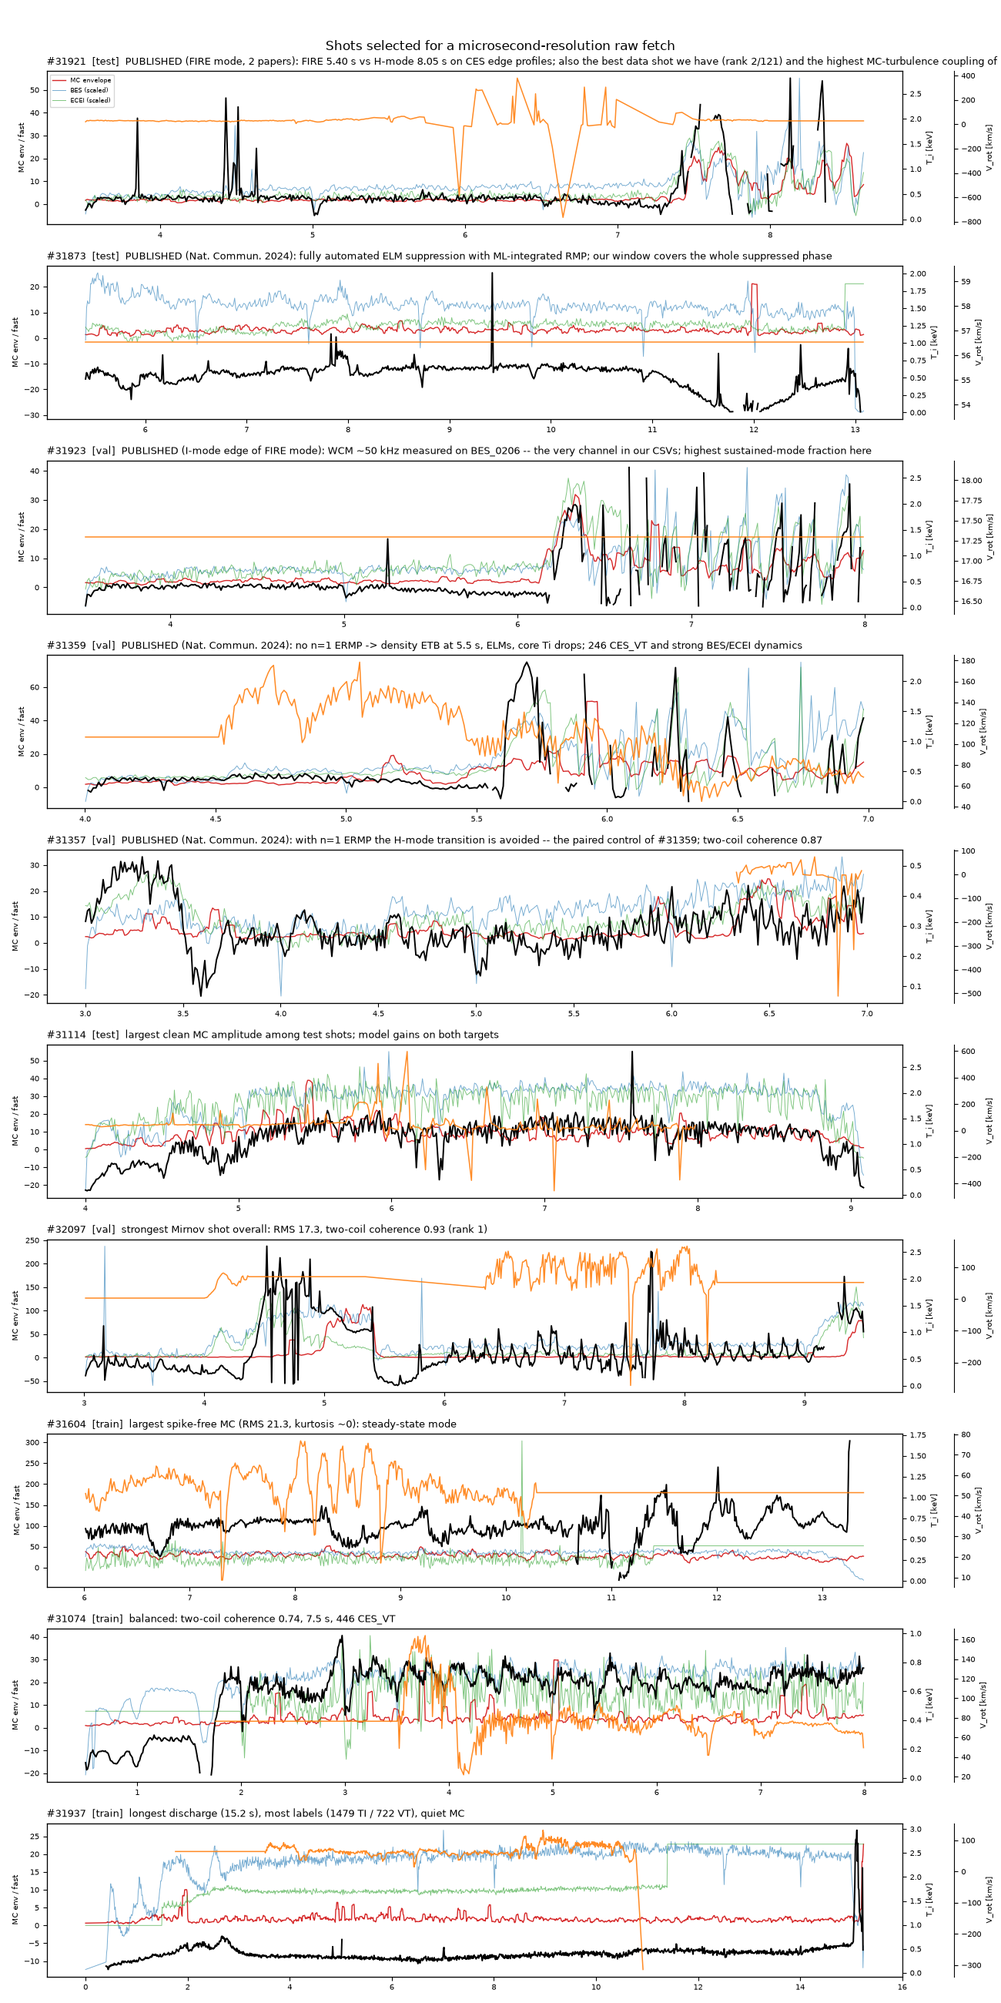
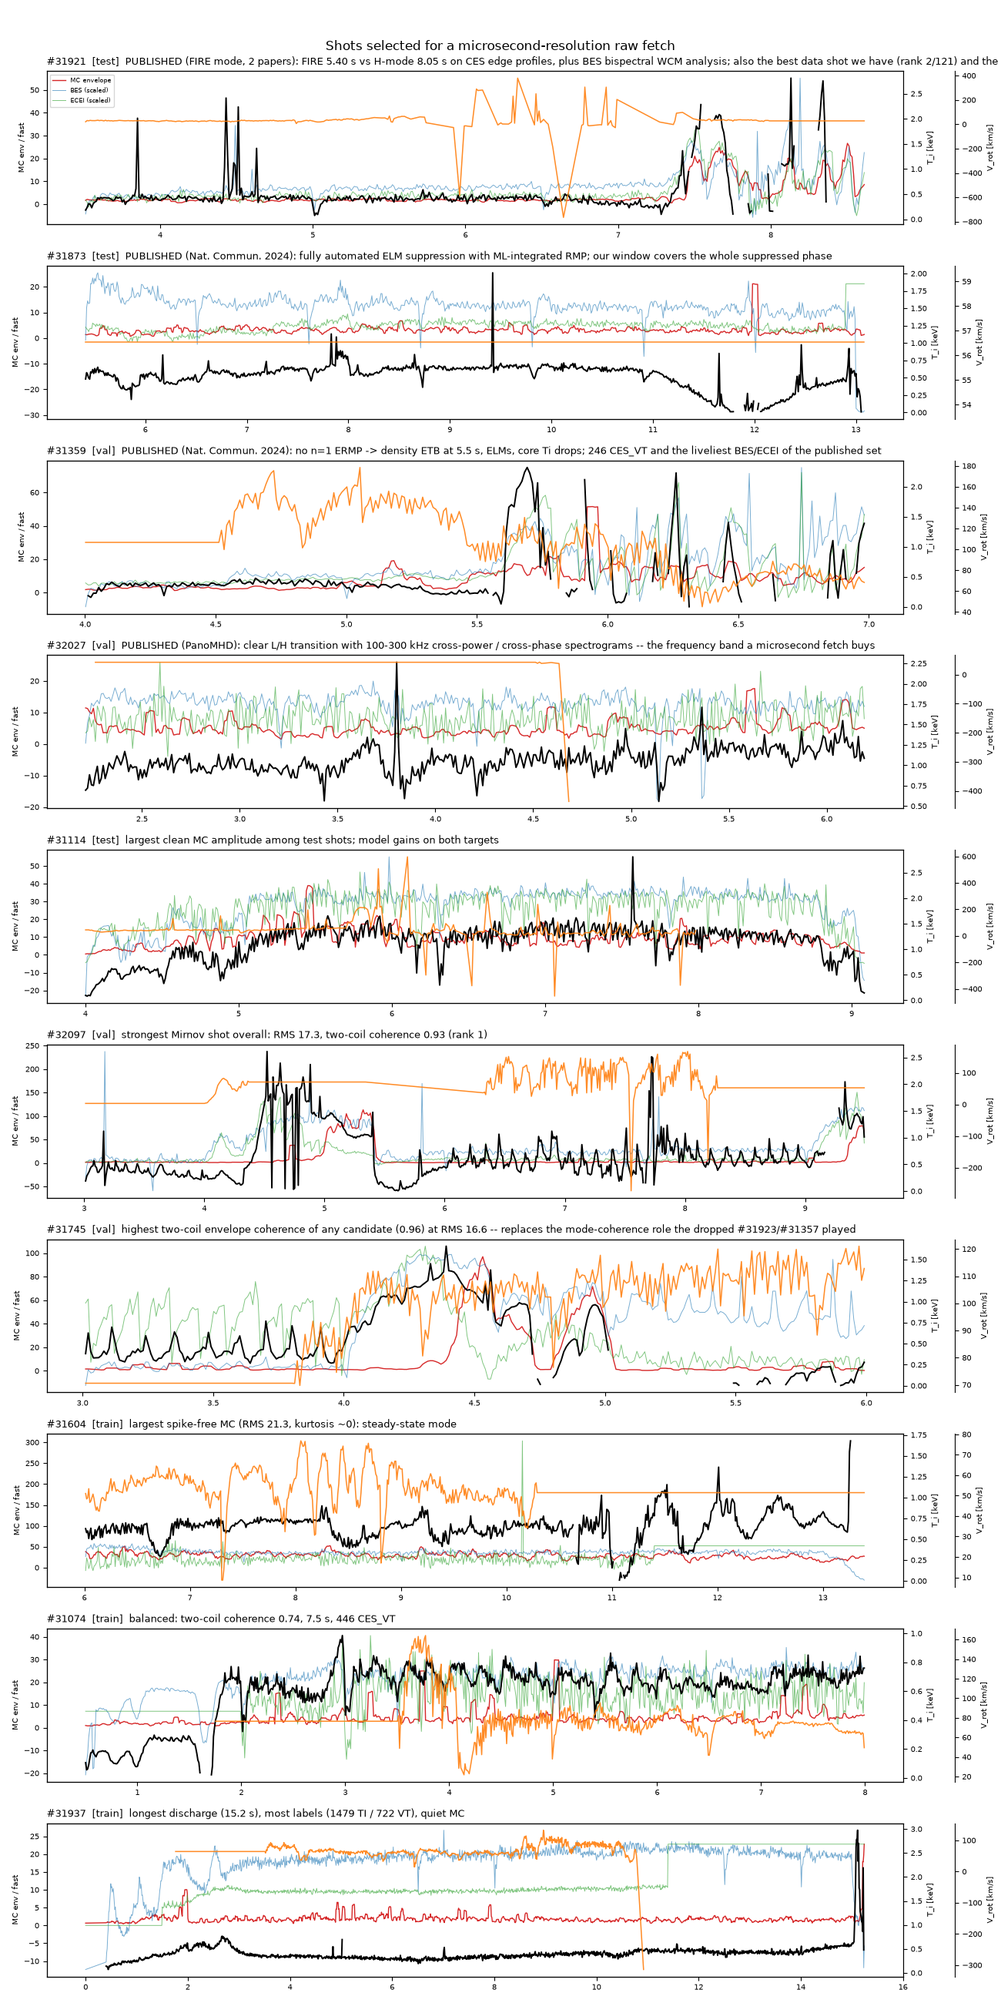
Remove same-session pairs from the microsecond-fetch list, keeping the frozen splits
The list had two pairs of shots two apart: #31921/#31923 and #31357/#31359. Adjacent shot
numbers are repeat discharges from one session, sharing plasma setup and diagnostic
gain/offset, so keeping both spends two of ten slots on one experiment.

session_similarity.py measures the effect over all 641 shots (176k pairs) rather than
asserting it: pairs with a gap <= 2 have a median |dTi| of 92 eV against 265 eV for random
pairs, and a median per-channel BES/ECEI calibration distance of 0.82 against 4.28
(one-sided permutation p < 1e-4). Calibration is the channel that matters, because the model
z-scores its inputs -- #31357 and #31359 differ by 202 eV in mean T_i, exactly as the paper
intends, yet sit at the 2.2th percentile of calibration distance. #31921/#31923 sit at the
0.0th percentile of summary distance with |dTi| = 21 eV.

Dropped #31923 (kept #31921: two papers, 296 CES_VT, data rank 2/121) and #31357 (kept
#31359: 246 vs 44 CES_VT, MC 8.3 vs 5.4, MC-BES coupling +0.32 vs -0.08). Both replacements
come from the same val side, so the split stays exactly as the frozen seed-42 manifest has
it -- 3 test / 4 val / 3 train, no reassignment:

  + #32027  published (PanoMHD): L/H transition with 100-300 kHz cross-spectra
  + #31745  two-coil envelope coherence 0.96, the highest of any candidate

Gap is a proxy, not the criterion. #31273 is 86 shots from #31604 but lands at the 3.6th
calibration percentile and was passed over; #31745 is 128 away and at the 23rd. Smallest
[…]

diff --git a/ces_prediction/experiments/hires_shots/session_similarity.py b/ces_prediction/experiments/hires_shots/session_similarity.py
@@ -1,0 +1,146 @@
+# -*- coding: utf-8 -*-
+"""How much do neighbouring shot numbers resemble each other?
+
+Repeat discharges from one session share plasma setup, diagnostic gain/offset and wall
+state, so a split that puts one on each side of a train/test boundary can hand the model
+free information. Whether that actually matters is measurable, and this measures it over
+all 641 shots rather than asserting it.
+
+Three distances per shot pair, binned by shot-number gap:
+  * summary distance   -- z-scored shot-level summary vector (CES levels, BES/ECEI/MC
+                          levels and spreads, discharge timing)
+  * |dTi|              -- difference of mean CES_TI in eV: what a leaked neighbour would
+                          tell the model about the answer
+  * calibration distance -- z-scored per-channel BES/ECEI means: the gain/offset channel,
+                          which is how a session leaks even when the physics differs
+
+Usage (repo root):  py ces_prediction/experiments/hires_shots/session_similarity.py
+Writes: session_similarity.json next to this file.
+"""
+from __future__ import annotations
+
+import glob
+import json
+import os
+from pathlib import Path
+
+import numpy as np
+import pandas as pd
+
+REPO_ROOT = Path(__file__).resolve().parents[3]
+DATA = Path(os.environ.get("CES_DATA_DIR", REPO_ROOT / "data"))
+HERE = Path(__file__).resolve().parent
+GAP_S = 0.5
+TI_SPIKE_EV = 3000.0
+PAIRS_OF_INTEREST = ((31921, 31923), (31357, 31359))
+BINS = ((1, 2), (3, 6), (7, 20), (21, 60), (61, 200), (201, 600), (601, 2000))
+
+
+def main_block(df):
+    t = df.time.to_numpy(float)
+    blk = np.concatenate(([0], np.cumsum(np.diff(t) >= GAP_S)))
+    return df.loc[blk == int(np.argmax(np.bincount(blk)))].reset_index(drop=True)
+
+
+def summarise():
+    rows = []
+    for f in sorted(glob.glob(str(DATA / "s*.csv"))):
+        df = main_block(pd.read_csv(f))
+        if len(df) < 50:
+            continue
+        ti = df.CES_TI.to_numpy(float)
+        ti = np.where(ti > TI_SPIKE_EV, np.nan, ti)
+        if not np.isfinite(ti).any():
+            continue
+        bes_c = [c for c in df.columns if c.startswith("BES_")]
+        ece_c = [c for c in df.columns if c.startswith("ECEI_")]
+        bes = df[bes_c].to_numpy(float)
+        ece = df[ece_c].to_numpy(float)
+        mc = df[[c for c in df.columns if c.startswith("MC")]].to_numpy(float)
+        vt = df.CES_VT.to_numpy(float)
+        rec = {"shot": int(os.path.basename(f)[1:-4]),
+               "ti_mean": np.nanmean(ti), "ti_std": np.nanstd(ti),
+               "vt_mean": np.nanmean(vt) if np.isfinite(vt).any() else np.nan,
+               "t_start": float(df.time.min()),
+               "t_span": float(df.time.max() - df.time.min()),
+               "bes_mean": np.nanmean(bes), "bes_std": np.nanstd(bes),
+               "ece_mean": np.nanmean(ece), "ece_std": np.nanstd(ece),
+               "mc_rms": float(np.sqrt(np.nanmean(mc ** 2)))}
+        for j, c in enumerate(bes_c + ece_c):
+            rec[f"m_{c}"] = np.nanmean((bes if j < len(bes_c) else ece)
+                                       [:, j if j < len(bes_c) else j - len(bes_c)])
+        rows.append(rec)
+    return pd.DataFrame(rows).dropna(subset=["ti_mean"]).reset_index(drop=True)
+
+
+def zscore(M):
+    M = np.asarray(M, float)
+    return np.nan_to_num((M - np.nanmean(M, axis=0)) / np.nanstd(M, axis=0))
+
+
+def main():
+    d = summarise()
+    print(f"shots with a usable summary: {len(d)}")
+    shots = d.shot.to_numpy()
+    iu = np.triu_indices(len(d), 1)
+    gap = np.abs(shots[iu[0]] - shots[iu[1]])
+
+    X = zscore(d[["ti_mean", "ti_std", "vt_mean", "bes_mean", "bes_std", "ece_mean",
+                  "ece_std", "mc_rms", "t_start", "t_span"]].to_numpy(float))
+    C = zscore(d[[c for c in d.columns if c.startswith("m_")]].to_numpy(float))
+    dist = np.linalg.norm(X[iu[0]] - X[iu[1]], axis=1)
+    cal = np.linalg.norm(C[iu[0]] - C[iu[1]], axis=1)
+    ti = d.ti_mean.to_numpy()
+    dti = np.abs(ti[iu[0]] - ti[iu[1]])
+
+    out = {"n_shots": int(len(d)), "n_pairs": int(len(gap)), "bins": [], "pairs": {},
+           "permutation": {}}
+    print("\n gap         pairs   summary-dist   |dTi| [eV]   calibration-dist")
+    print(" " + "-" * 70)
+    for lo, hi in BINS:
+        m = (gap >= lo) & (gap <= hi)
+        if m.sum() < 5:
+            continue
+        row = {"gap_lo": lo, "gap_hi": hi, "n": int(m.sum()),
+               "summary_dist": float(np.median(dist[m])),
+               "d_ti_ev": float(np.median(dti[m])),
+               "calibration_dist": float(np.median(cal[m]))}
+        out["bins"].append(row)
+        print(f" {lo:4d}-{hi:<6d} {row['n']:7d}   {row['summary_dist']:8.3f}   "
+              f"{row['d_ti_ev']:10.1f}   {row['calibration_dist']:12.3f}")
+    print(f" {'all':<11s} {len(gap):7d}   {np.median(dist):8.3f}   "
+          f"{np.median(dti):10.1f}   {np.median(cal):12.3f}")
+
+    rng = np.random.default_rng(0)
+    near = gap <= 2
+    for label, vec in (("summary_dist", dist), ("d_ti_ev", dti), ("calibration_dist", cal)):
+        obs = float(np.median(vec[near]))
+        null = np.array([np.median(rng.choice(vec, size=int(near.sum()), replace=False))
+                         for _ in range(4000)])
+        p = float((null <= obs).mean())
+        out["permutation"][label] = {"adjacent_median": obs,
+                                     "random_median": float(np.median(null)),
+                                     "p_one_sided": p, "n_adjacent_pairs": int(near.sum())}
+        print(f"\n{label}: adjacent(gap<=2) {obs:.3f} vs random {np.median(null):.3f}, "
+              f"one-sided p = {p:.4f}")
+
+    print("\n=== the two adjacent pairs in the fetch list ===")
+    for a, b in PAIRS_OF_INTEREST:
+        ia = int(np.flatnonzero(shots == a)[0])
+        ib = int(np.flatnonzero(shots == b)[0])
+        ds = float(np.linalg.norm(X[ia] - X[ib]))
+        dc = float(np.linalg.norm(C[ia] - C[ib]))
+        rec = {"summary_dist": ds, "summary_pct": float((dist < ds).mean() * 100),
+               "calibration_dist": dc, "calibration_pct": float((cal < dc).mean() * 100),
+               "d_ti_ev": float(abs(ti[ia] - ti[ib]))}
+        out["pairs"][f"{a}-{b}"] = rec
+        print(f"  #{a} vs #{b}: summary {ds:.3f} (pct {rec['summary_pct']:.1f}), "
+              f"calibration {dc:.3f} (pct {rec['calibration_pct']:.1f}), "
+              f"|dTi| {rec['d_ti_ev']:.1f} eV")
+
+    (HERE / "session_similarity.json").write_text(json.dumps(out, indent=1), encoding="utf-8")
+    print(f"\nwrote {HERE / 'session_similarity.json'}")
+
+
+if __name__ == "__main__":
+    main()

diff --git a/ces_prediction/experiments/hires_shots/select_hires_shots.py b/ces_prediction/experiments/hires_shots/select_hires_shots.py
@@ -59,26 +59,48 @@ ENV_WIN = 5            # 50 ms rolling window for the MC amplitude envelope
 # already published is a shot whose raw microsecond data can be checked against a known
 # answer. The rest is chosen by score, to cover the axes the published shots miss
 # (CES_VT sampling, very long discharges, the strongest Mirnov activity).
+#
+# Split membership is NOT reassigned: every shot keeps the role the confirmed W = 2
+# protocol's seed-42 manifest already gives it (3 test / 4 val / 3 train).
+#
+# No two shots in the list come from the same session. Adjacent shot numbers are repeat
+# discharges that share plasma setup and diagnostic gain, and `session_similarity.py`
+# measures how much that matters: over all 641 shots, pairs with a gap <= 2 sit at a
+# median |dTi| of 92 eV against 265 eV for random pairs, and a median calibration distance
+# of 0.82 against 4.28 (one-sided p < 1e-4). The earlier version of this list contained
+# two such pairs (#31921/#31923 at the 0.0th percentile of all 176k pair distances, and
+# #31357/#31359); one member of each was dropped and replaced from the same split side.
 FINAL = [
     # --- literature-confirmed -------------------------------------------------------
     (31921, "test",  "PUBLISHED (FIRE mode, 2 papers): FIRE 5.40 s vs H-mode 8.05 s on CES "
-                     "edge profiles; also the best data shot we have (rank 2/121) and the "
-                     "highest MC-turbulence coupling of all 641"),
+                     "edge profiles, plus BES bispectral WCM analysis; also the best data "
+                     "shot we have (rank 2/121) and the highest MC-turbulence coupling of "
+                     "all 641"),
     (31873, "test",  "PUBLISHED (Nat. Commun. 2024): fully automated ELM suppression with "
                      "ML-integrated RMP; our window covers the whole suppressed phase"),
-    (31923, "val",   "PUBLISHED (I-mode edge of FIRE mode): WCM ~50 kHz measured on BES_0206 "
-                     "-- the very channel in our CSVs; highest sustained-mode fraction here"),
     (31359, "val",   "PUBLISHED (Nat. Commun. 2024): no n=1 ERMP -> density ETB at 5.5 s, ELMs, "
-                     "core Ti drops; 246 CES_VT and strong BES/ECEI dynamics"),
-    (31357, "val",   "PUBLISHED (Nat. Commun. 2024): with n=1 ERMP the H-mode transition is "
-                     "avoided -- the paired control of #31359; two-coil coherence 0.87"),
+                     "core Ti drops; 246 CES_VT and the liveliest BES/ECEI of the published set"),
+    (32027, "val",   "PUBLISHED (PanoMHD): clear L/H transition with 100-300 kHz cross-power / "
+                     "cross-phase spectrograms -- the frequency band a microsecond fetch buys"),
     # --- chosen by the data score ----------------------------------------------------
     (31114, "test",  "largest clean MC amplitude among test shots; model gains on both targets"),
     (32097, "val",   "strongest Mirnov shot overall: RMS 17.3, two-coil coherence 0.93 (rank 1)"),
+    (31745, "val",   "highest two-coil envelope coherence of any candidate (0.96) at RMS 16.6 "
+                     "-- replaces the mode-coherence role the dropped #31923/#31357 played"),
     (31604, "train", "largest spike-free MC (RMS 21.3, kurtosis ~0): steady-state mode"),
     (31074, "train", "balanced: two-coil coherence 0.74, 7.5 s, 446 CES_VT"),
     (31937, "train", "longest discharge (15.2 s), most labels (1479 TI / 722 VT), quiet MC"),
 ]
+# Dropped to remove same-session pairs; each replacement came from the same split side.
+DROPPED_FOR_SESSION = {
+    31923: "same session as #31921 (gap 2): summary distance at the 0.0th percentile of all "
+           "176k pairs, |dTi| 21 eV. Kept #31921 -- 2 papers, 296 CES_VT, data rank 2/121. "
+           "Replaced by #32027 (val, published)",
+    31357: "same session as #31359 (gap 2): calibration distance at the 2.2th percentile. "
+           "Kept #31359 -- 246 vs 44 CES_VT, MC 8.3 vs 5.4, MC-BES coupling +0.32 vs -0.08. "
+           "Replaced by #31745 (val, two-coil coherence 0.96)",
+}
+# Every dataset shot the literature cross-check confirmed (see literature_crosscheck.py).
 # Every dataset shot the literature cross-check confirmed (see literature_crosscheck.py).
 CONFIRMED_SHOTS = {31921, 31923, 31873, 31276, 31357, 31359, 32027, 31888}
 # Published shots that did NOT make the list, and why (see SELECTION.md).
@@ -86,8 +108,10 @@ REJECTED_PUBLISHED = {
     31276: "MC RMS 12.7 collapses to 32 % when the 5 largest samples are dropped "
            "(kurtosis 363) -- an electrical spike, not mode activity",
     31888: "disruption example shot; MC RMS carried by spikes (trim ratio 0.36, kurtosis 105)",
-    32027: "PanoMHD L/H transition shot -- kept as the first alternate; only 8 CES_VT values "
-           "and weak MC coupling",
+    31923: "dropped for same-session overlap with #31921, not for quality -- see "
+           "DROPPED_FOR_SESSION",
+    31357: "dropped for same-session overlap with #31359, not for quality -- see "
+           "DROPPED_FOR_SESSION",
 }
 
 
@@ -486,6 +510,16 @@ def main():
     print("\npublished shots deliberately left out:")
     for s, why in REJECTED_PUBLISHED.items():
         print(f"  #{s}: {why}")
+    print("\ndropped to remove same-session pairs:")
+    for s, why in DROPPED_FOR_SESSION.items():
+        print(f"  #{s}: {why}")
+    picked = sorted(int(x) for x in sel.shot)
+    gaps = [(picked[i], picked[i + 1], picked[i + 1] - picked[i]) for i in range(len(picked) - 1)]
+    print(f"\nsmallest shot-number gap in the final list: {min(g for _, _, g in gaps)} "
+          f"({[f'{a}->{b}:{g}' for a, b, g in gaps if g == min(x for _, _, x in gaps)]})")
+    roles = sel.split_s42.value_counts().to_dict()
+    assert all(sel.role == sel.split_s42), "role must equal the frozen s42 split membership"
+    print(f"split (unchanged from the frozen s42 manifest): {roles}")
     plot_final(d)
     print(f"\nwrote {HERE / 'FINAL_10.csv'} and FINAL_10.png")
 

diff --git a/ces_prediction/experiments/hires_shots/SELECTION.md b/ces_prediction/experiments/hires_shots/SELECTION.md
@@ -76,25 +76,64 @@ shot under the protocol the paper reports.
 
 ---
 
+## Screen 3 — one shot per session
+
+Adjacent shot numbers are repeat discharges from a single session: same plasma setup, same
+diagnostic gain and offset, same wall state. `session_similarity.py` measures what that is
+worth over all 641 shots (176k pairs):
+
+| gap | pairs | summary distance | \|ΔT_i\| [eV] | **calibration distance** |
+|---|---|---|---|---|
+| 1–2 | 738 | 1.95 | **91.5** | **0.82** |
+| 3–6 | 1,211 | 2.53 | 137.7 | 1.49 |
+| 7–20 | 3,140 | 3.53 | 227.1 | 2.95 |
+| 61–200 | 27,101 | 4.05 | 257.2 | 3.85 |
+| all | 176,121 | 4.14 | 264.9 | 4.28 |
+
+Shots two apart differ in mean T_i by a third of what random pairs do, and their per-channel
+BES/ECEI calibration is five times closer (one-sided permutation p < 1e-4). Since the model
+z-scores its inputs, that calibration channel is how a session leaks **even when the physics
+differs** — the ERMP pair #31357/#31359 differ by 202 eV in mean T_i (the paper's whole point)
+yet sit at the 2.2nd percentile of calibration distance.
+
+So the list takes **at most one shot per session**. Two same-session pairs were removed:
+
+* **#31923** dropped, **#31921** kept — the pair sat at the *0.0th percentile* of all 176k
+  summary distances (|ΔT_i| = 21 eV). #31921 wins on every axis: two papers instead of one,
+  296 independent V_rot instead of none, data rank 2/121. Replaced by **#32027**, also
+  published, also on the val side.
+* **#31357** dropped, **#31359** kept — 246 vs 44 V_rot, MC 8.3 vs 5.4, MC↔BES coupling +0.32
+  vs −0.08. Replaced by **#31745**, the highest two-coil envelope coherence of any candidate.
+
+Gap is a proxy, not the criterion: the measured distance is. #31273 sits 86 shots away from
+#31604 yet lands at the 3.6th calibration percentile, so it was passed over; #31745 is
+128 away *and* at the 23rd percentile.
+
+**Split membership is never reassigned.** Every shot keeps the role the frozen seed-42
+manifest gives it, and both replacements were drawn from the same (val) side, so the list is
+still 3 test / 4 val / 3 train.
+
+---
+
 ## The list
 
 `t_start`–`t_end` is the discharge's contiguous block — the window to request.
 
 | # | shot | split (s42) | window [s] | T_i / V_rot | MC RMS (trim, kurt) | why |
 |---|---|---|---|---|---|---|
-| 1 | **31921** | **test** (2 seeds) | 3.51–8.61 | 446 / 296 | 5.0 (0.82, 15) | **published ×2 (FIRE mode, CES edge profiles)** *and* the best data shot we have — rank 2/121, MC↔turbulence coupling 0.575, the highest of all 641 |
+| 1 | **31921** | **test** (2 seeds) | 3.51–8.61 | 446 / 296 | 5.0 (0.82, 15) | **published ×2 (FIRE mode, CES edge profiles + BES bispectral WCM)** *and* the best data shot we have — rank 2/121, MC↔turbulence coupling 0.575, the highest of all 641 |
 | 2 | **31873** | **test** | 5.41–13.08 | 748 / — | 2.6 (0.85, 40) | **published, Nat. Commun. 2024** — automated ELM suppression; 7.7 s window covering the whole suppressed phase |
 | 3 | **31114** | **test** | 4.00–9.08 | 506 / 311 | **8.0** (0.88, 11) | largest clean MC amplitude among test shots; model gains on **both** targets (+0.26 T_i, +0.16 V_rot vs PCHIP) |
-| 4 | **31923** | val (2 seeds) | 3.51–7.99 | 390 / — | 5.8 (0.83, 12) | **published — WCM ~50 kHz on `BES_0206`**; also the highest sustained-mode fraction of the ten (34 %) |
-| 5 | **31359** | val | 4.00–6.98 | 234 / 246 | 8.3 (0.73, 32) | **published, Nat. Commun. 2024** — no ERMP → ETB + ELMs; 246 V_rot values and the liveliest BES/ECEI of the published set |
-| 6 | **31357** | val | 3.00–6.98 | 396 / 44 | 5.4 (0.85, 8.8) | **published — the paired control of #31359** (ERMP on, transition avoided); two-coil coherence 0.87 |
-| 7 | **32097** | val | 3.01–9.49 | 631 / 221 | **17.3** (0.87, 17) | strongest Mirnov shot overall (rank 1/121): two-coil coherence **0.93**, sustained mode 22 % |
+| 4 | **31359** | val | 4.00–6.98 | 234 / 246 | 8.3 (0.73, 32) | **published, Nat. Commun. 2024** — no ERMP → ETB + ELMs; 246 V_rot values and the liveliest BES/ECEI of the published set |
+| 5 | **32027** | val | 2.21–6.19 | 396 / 8 | 4.2 (0.86, 7.8) | **published (PanoMHD)** — clear L/H transition with **100–300 kHz cross-power / cross-phase**: exactly the band a μs fetch buys. Largest level step of the ten (0.98) |
+| 6 | **32097** | val | 3.01–9.49 | 631 / 221 | **17.3** (0.87, 17) | strongest Mirnov shot overall (rank 1/121): two-coil coherence **0.93**, sustained mode 22 % |
+| 7 | **31745** | val | 3.01–5.99 | 234 / 216 | 16.6 (0.79, 11) | **two-coil envelope coherence 0.96 — the highest of any candidate**, sustained mode 32 %, level step 0.97. Carries the coherent-mode role the dropped shots played |
 | 8 | **31604** | train | 6.01–13.39 | 716 / 425 | **21.3** (**0.98**, **−0.9**) | the cleanest large MC in the dataset — near-Gaussian, spike-free, steady-state mode: ideal for spectral / mode-number analysis once phase is restored |
 | 9 | **31074** | train | 0.50–7.99 | 736 / 446 | 4.3 (0.74, 36) | balanced all-round: coherence 0.74, 7.5 s, 446 V_rot |
 | 10 | **31937** | train | 0.00–15.24 | **1479 / 722** | 1.7 (0.83, 56) | longest discharge by 2×, most labels of any shot; MC is quiet → the negative control that makes "does MC information help?" answerable |
 
-Five published shots, five picked by score. Three test shots, so a paper figure has a legitimate
-held-out case; #31921 and #31923 are test shots under two of the four split seeds.
+Four published shots, six picked by score; smallest shot-number gap in the list is **16**.
+Three test shots, so a paper figure has a legitimate held-out case.
 
 ### Published shots left out
 
@@ -102,22 +141,19 @@ held-out case; #31921 and #31923 are test shots under two of the four split seed
   (kurtosis 363). Spike, not mode.
 * **#31888** — disruption example; same problem (trim ratio 0.36, kurtosis 105), and a
   disruption tail corrupts the CES labels.
-* **#32027** — kept as **first alternate**: the physics (L/H transition, 100–300 kHz
-  cross-spectra) fits the μs case well, but it has only 8 independent V_rot values and no MC↔BES
-  coupling.
+* **#31923**, **#31357** — dropped for same-session overlap, not for quality. If a second
+  discharge from either session is ever wanted, these are the ones to add.
 
 ### Why not simply the top ten by score
 
-* **Session diversity.** Adjacent shot numbers are repeat discharges. The list takes at most one
-  per session cluster and spreads across 310xx–320xx — except #31357/#31359, which are taken
-  *deliberately as a pair* because the paper varies exactly one knob between them.
+* **One shot per session** (screen 3), measured rather than assumed.
 * **Role balance.** Eight shots carry strong magnetic activity; #31937 and #31873 are MC-quiet.
   Without a quiet arm there is no contrast against which "raw MC restores mode information the
   100 Hz grid destroyed" can be tested.
-* **CES_VT is not the point of this fetch.** #31873 and #31923 have no independent V_rot at all
-  (a single held value for the whole shot) and would fail the data gate on that alone. The raw
-  fetch upgrades the *inputs* (BES/ECEI/MC); the CES labels stay at 10 ms either way, and those
-  two shots earn their slot on published physics.
+* **CES_VT is not the point of this fetch.** #31873 has no independent V_rot at all (a single
+  held value for the whole shot) and would fail the data gate on that alone. The raw fetch
+  upgrades the *inputs* (BES/ECEI/MC); the CES labels stay at 10 ms either way, and that shot
+  earns its slot on published physics.
 
 ## Caveats
 
